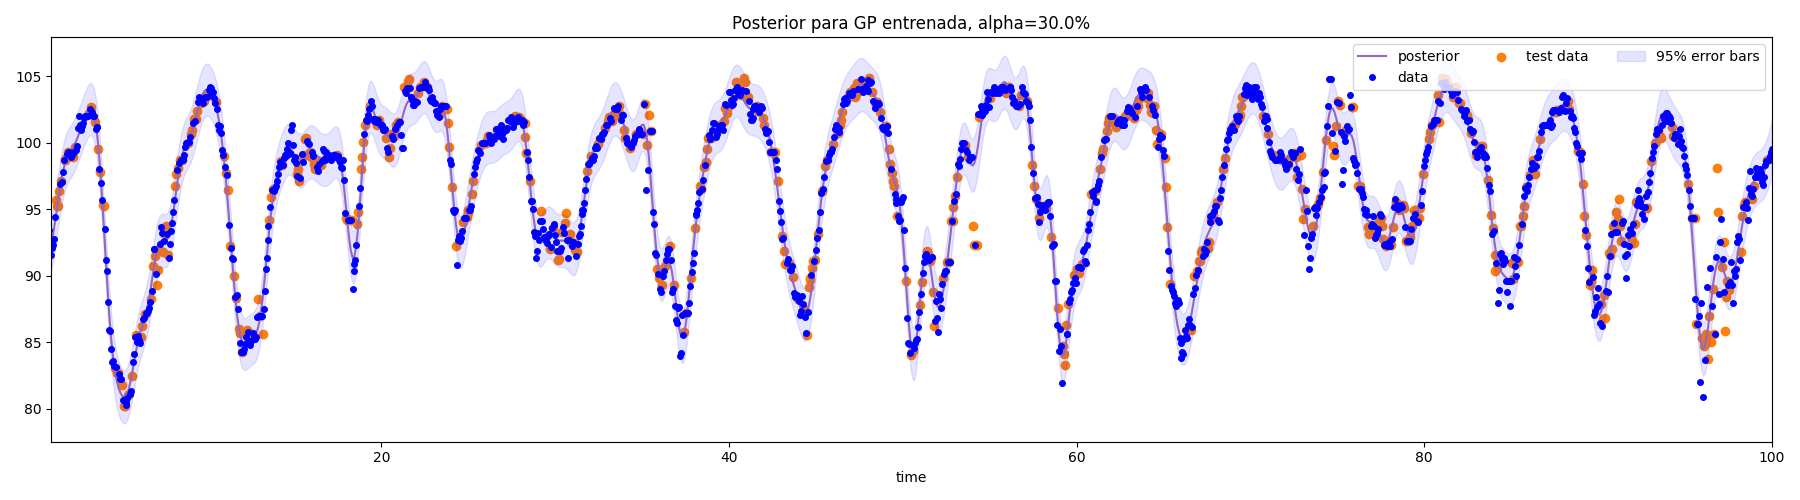
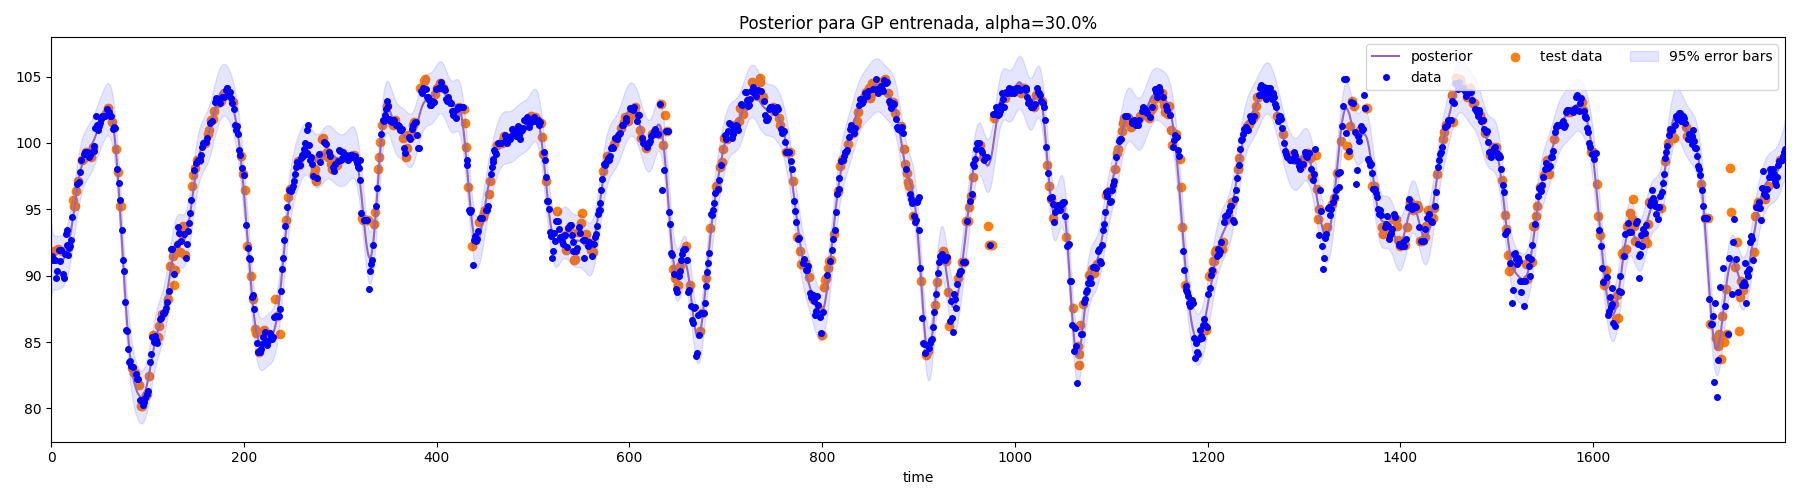
updte tarea 3 indices gp

diff --git a/unidad_2/tarea_3/graficos_entrega.py b/unidad_2/tarea_3/graficos_entrega.py
@@ -1,6 +1,6 @@
 import numpy as np
 np.random.seed(0)
-from plot import plot_series, plot_data, plot_posterior
+from plot import plot_posterior
 from gp.gp_lite_tarea import gp_lite
 
 # Parámetros del código
@@ -12,8 +12,6 @@ img_dir = "unidad_2/tarea_3/informe/img"  # directorio en caso de guardar las fi
 
 # heart rates
 hr1 = np.loadtxt('unidad_1/tarea_2/hr.7257.txt')
-times = np.linspace(0,100,len(hr1))
-# hr2 = np.loadtxt('unidad_1/tarea_2/hr.11839.txt')
 
 # eliminando parte de las observaciones
 ALPHA = .3
@@ -27,31 +25,30 @@ test_ind = np.array([i for i in range(len(hr1)) if i not in indices])
 
 gp = gp_lite()
 gp.init_hypers()
+gp.show_hypers()
 
-i = len(indices)
-gp.compute_posterior(dimension=i)
 
-gp.sample(how_many=2)
+# gp.sample(how_many=2)
 # gp.plot_samples()
 
-gp.load(times[indices],hr1[indices])
+gp.load(indices,hr1[indices])
 # plot_data(gp)
 
-gp.compute_posterior(dimension=1000)
-# gp.plot_posterior(5,v_axis_lims = 35)
+gp.compute_posterior(where=np.arange(len(hr1)))
+
 print(f'negative log-likelihood modelo sin entrenar: {gp.nll()}')
 titulo = "Posterior para GP sin entrenar, alpha={}%".format(ALPHA*100)
 img_file = "untrained_gp_post.png" if save_plots else None
-plot_posterior(gp,0, test_points=hr1[test_ind], test_times=times[test_ind],title=titulo,save=img_file,folder=img_dir)
+plot_posterior(gp,0, test_points=hr1[test_ind], test_times=test_ind,title=titulo,save=img_file,folder=img_dir)
 
 
 # Entrenamiento
 if entrenar:
     gp.train()
     titulo = "Posterior para GP entrenada, alpha={}%".format(ALPHA*100)
-    gp.compute_posterior(dimension=1000)
+    gp.compute_posterior(where=np.arange(len(hr1)))
 
-    # gp.plot_posterior(5,v_axis_lims = 35)
     print(f'Negative log-likelihood modelo entrenado: {gp.nll()}')
+    gp.show_hypers()
     img_file = "trained_gp_post.png" if save_plots else None
-    plot_posterior(gp,0, test_points=hr1[test_ind],test_times=times[test_ind],save=img_file,folder=img_dir,title=titulo)
+    plot_posterior(gp,0, test_points=hr1[test_ind],test_times=test_ind,save=img_file,folder=img_dir,title=titulo)
